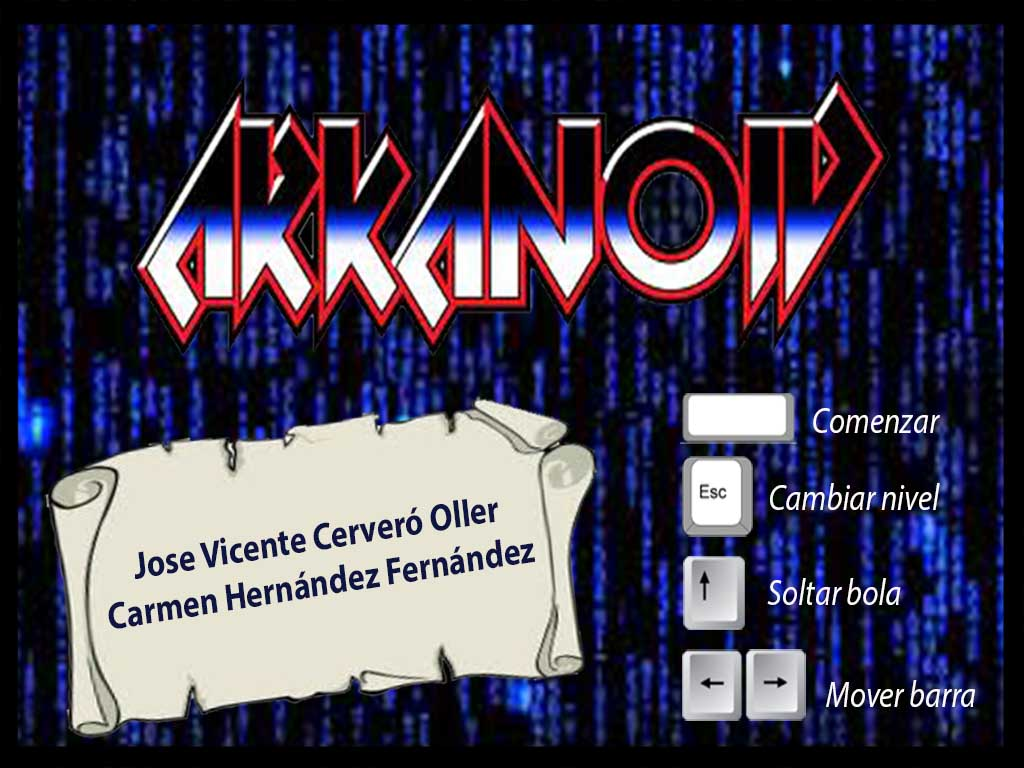
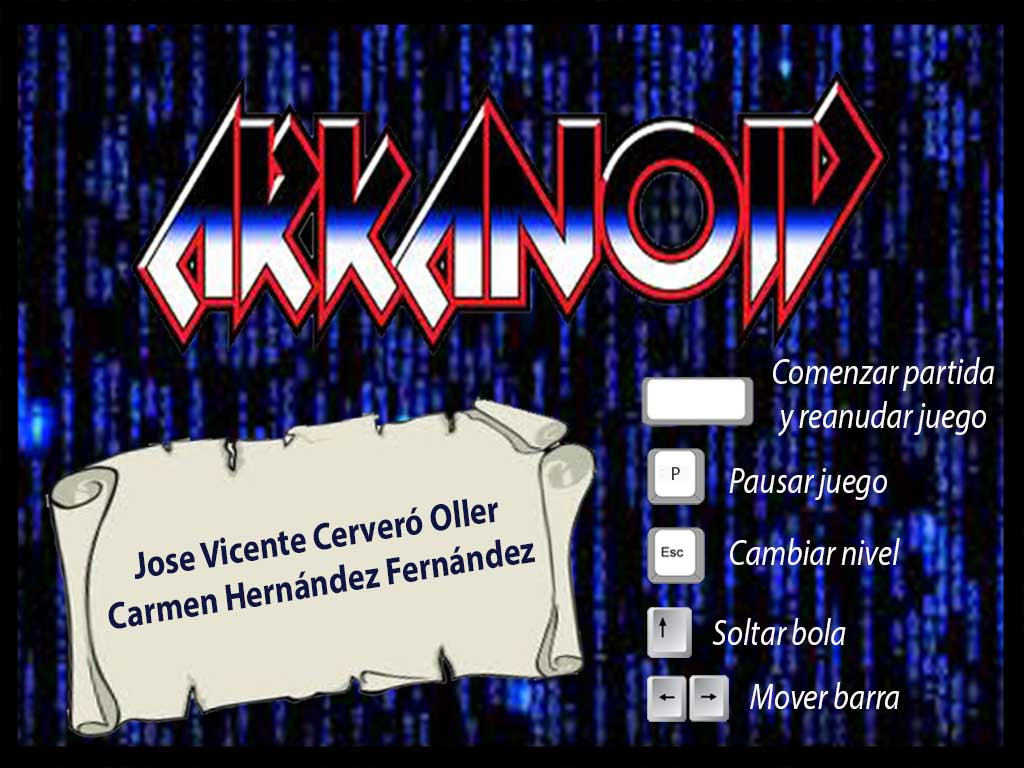
Añadida pausa (p) y reanudación (espacio) al juego

Changed region(s): [[0.625, 0.4688, 0.9688, 0.9375]]

diff --git a/Arkanoid/src/arkanoid/escenas/Escena1.java b/Arkanoid/src/arkanoid/escenas/Escena1.java
@@ -43,8 +43,8 @@ public class Escena1 extends Escena{
            
         controlEscena=new Control(game,"ESCENA 1");
         controlEscena.setAction(this.SALIR, KeyEvent.VK_ESCAPE, 0);
-        //controlEscena.setAction(this.PAUSAR, KeyEvent.VK_P, 0);
-        //controlEscena.setAction(this.CONTINUAR, KeyEvent.VK_SPACE, 0);
+        controlEscena.setAction(this.PAUSAR, KeyEvent.VK_P, 0);
+        controlEscena.setAction(this.CONTINUAR, KeyEvent.VK_SPACE, 0);
         controlEscena.setOwner(this);
         game.controlManager.addControl(controlEscena);  
     }
@@ -68,13 +68,12 @@ public class Escena1 extends Escena{
 
     @Override
     public void reanudar() {
-        //game.reanudarJuego();
-        //textoInformativo.setTexto("");
+        game.reanudarJuego();
     }
 
     @Override
     public void pausar() {
-
+        game.pausarJuego();
     }
 
     @Override

diff --git a/Arkanoid/src/arkanoid/escenas/Escena2.java b/Arkanoid/src/arkanoid/escenas/Escena2.java
@@ -55,8 +55,8 @@ public class Escena2 extends Escena{
            
         controlEscena=new Control(game,"ESCENA 2");
         controlEscena.setAction(this.SALIR, KeyEvent.VK_ESCAPE, 0);
-        //controlEscena.setAction(this.PAUSAR, KeyEvent.VK_P, 0);
-        //controlEscena.setAction(this.CONTINUAR, KeyEvent.VK_SPACE, 0);
+        controlEscena.setAction(this.PAUSAR, KeyEvent.VK_P, 0);
+        controlEscena.setAction(this.CONTINUAR, KeyEvent.VK_SPACE, 0);
         controlEscena.setOwner(this);
         game.controlManager.addControl(controlEscena);  
     }
@@ -80,13 +80,12 @@ public class Escena2 extends Escena{
 
     @Override
     public void reanudar() {
-        textoInformativo.setTexto("");
         game.reanudarJuego();
     }
 
     @Override
     public void pausar() {
-
+        game.pausarJuego();
     }
 
     @Override

diff --git a/Arkanoid/src/arkanoid/escenas/Escena3.java b/Arkanoid/src/arkanoid/escenas/Escena3.java
@@ -44,8 +44,8 @@ public class Escena3 extends Escena{
            
         controlEscena=new Control(game,"ESCENA 2");
         controlEscena.setAction(this.SALIR, KeyEvent.VK_ESCAPE, 0);
-        //controlEscena.setAction(this.PAUSAR, KeyEvent.VK_P, 0);
-        //controlEscena.setAction(this.CONTINUAR, KeyEvent.VK_SPACE, 0);
+        controlEscena.setAction(this.PAUSAR, KeyEvent.VK_P, 0);
+        controlEscena.setAction(this.CONTINUAR, KeyEvent.VK_SPACE, 0);
         controlEscena.setOwner(this);
         game.controlManager.addControl(controlEscena);  
     }
@@ -69,13 +69,12 @@ public class Escena3 extends Escena{
 
     @Override
     public void reanudar() {
-        textoInformativo.setTexto("");
         game.reanudarJuego();
     }
 
     @Override
     public void pausar() {
-
+        game.pausarJuego();
     }
 
     @Override

diff --git a/Arkanoid/src/arkanoid/escenas/Escena4.java b/Arkanoid/src/arkanoid/escenas/Escena4.java
@@ -62,8 +62,8 @@ public class Escena4 extends Escena{
            
         controlEscena=new Control(game,"ESCENA 2");
         controlEscena.setAction(this.SALIR, KeyEvent.VK_ESCAPE, 0);
-        //controlEscena.setAction(this.PAUSAR, KeyEvent.VK_P, 0);
-        //controlEscena.setAction(this.CONTINUAR, KeyEvent.VK_SPACE, 0);
+        controlEscena.setAction(this.PAUSAR, KeyEvent.VK_P, 0);
+        controlEscena.setAction(this.CONTINUAR, KeyEvent.VK_SPACE, 0);
         controlEscena.setOwner(this);
         game.controlManager.addControl(controlEscena);  
     }
@@ -87,13 +87,12 @@ public class Escena4 extends Escena{
 
     @Override
     public void reanudar() {
-        textoInformativo.setTexto("");
         game.reanudarJuego();
     }
 
     @Override
     public void pausar() {
-
+        game.pausarJuego();
     }
 
     @Override
